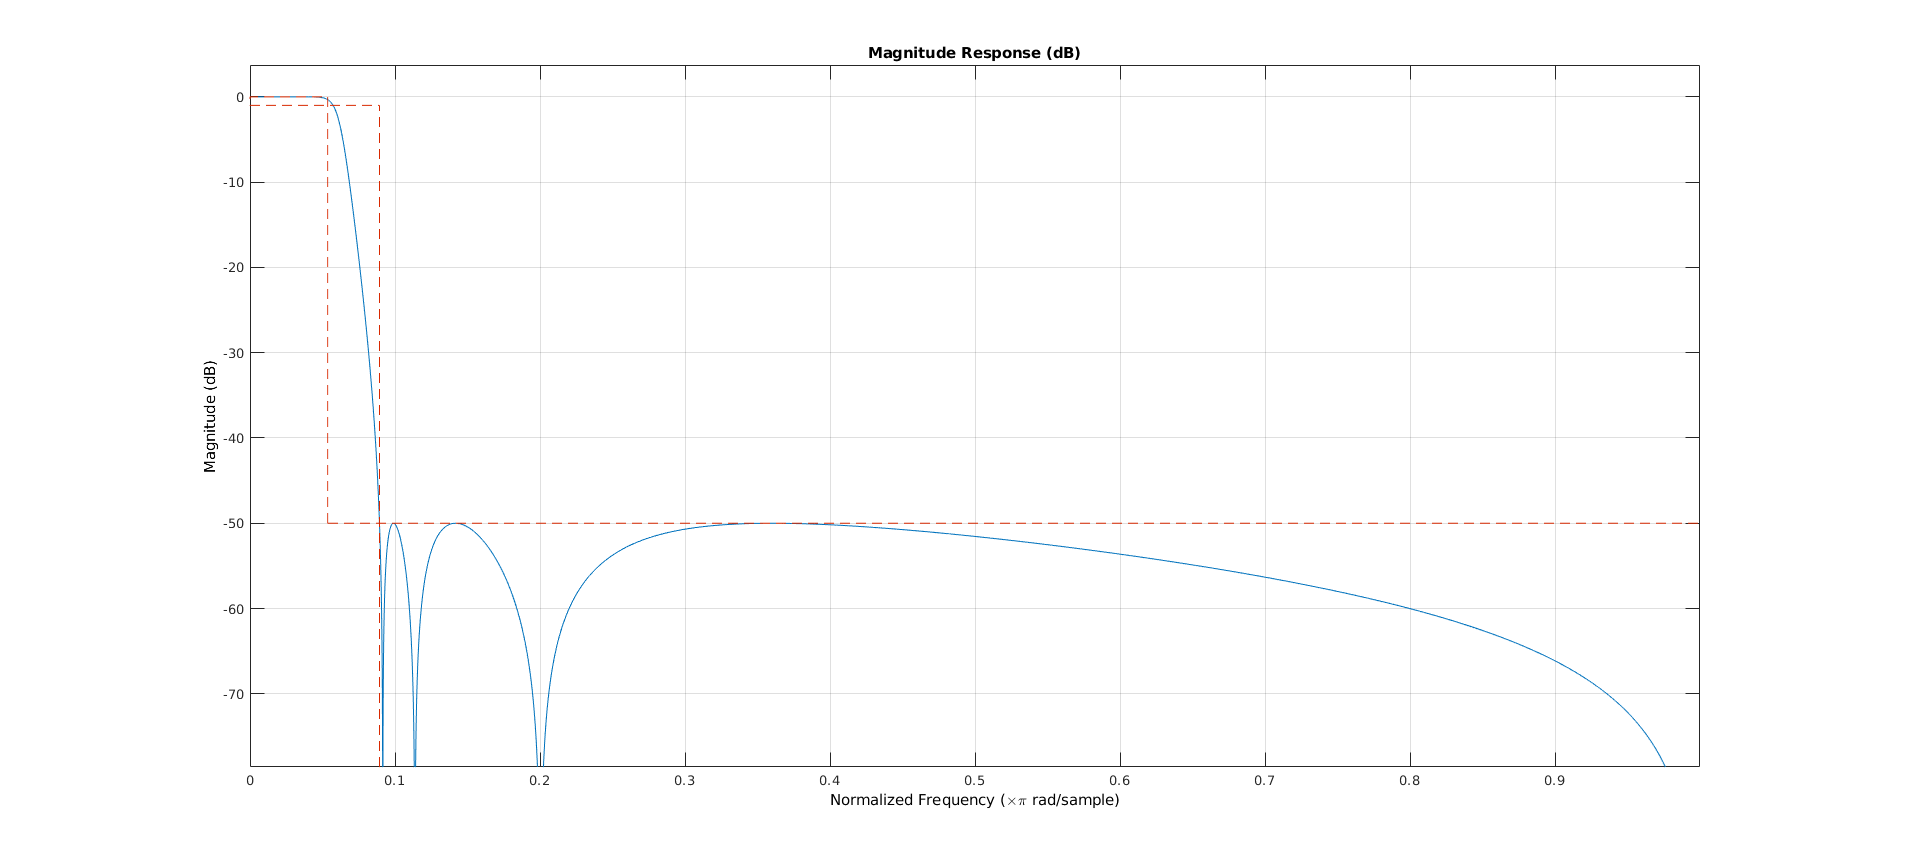
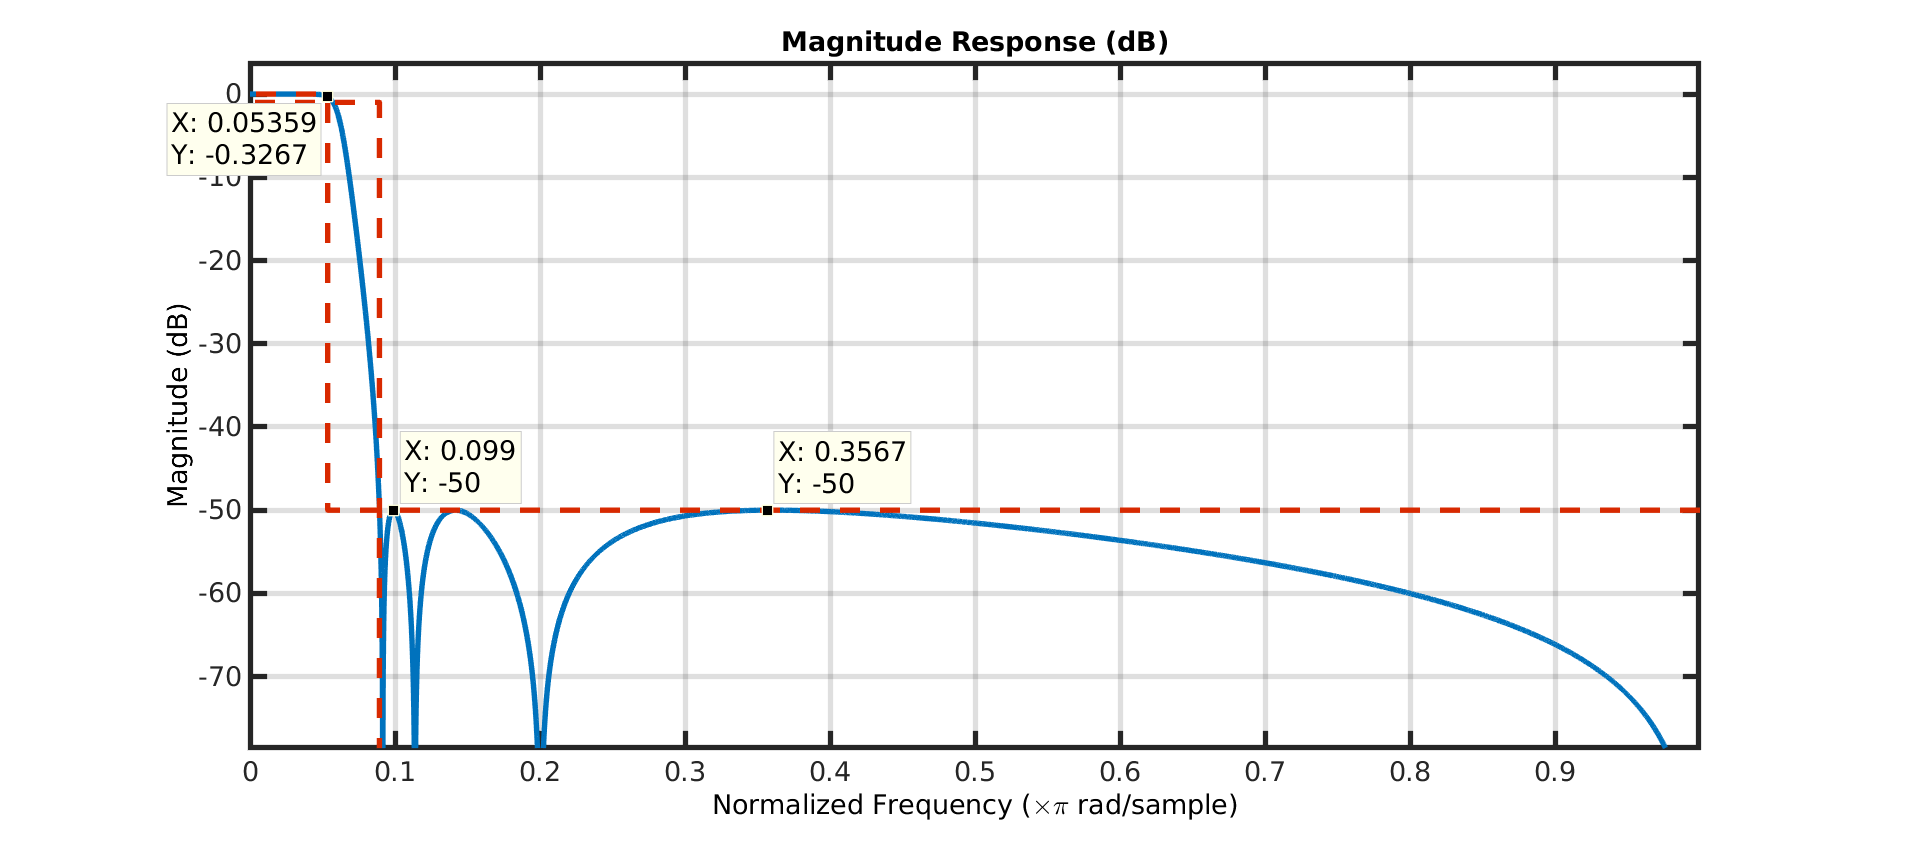
changed figs

diff --git a/week6/butterworth.m b/week6/butterworth.m
@@ -20,5 +20,7 @@ h  = fdesign.lowpass(Fpass, Fstop, Apass, Astop);
 Hd = design(h, 'butter', 'MatchExactly', match);
 disp('Order: ')
 disp(filtord(Hd.sosMatrix));
-fvtool(Hd)
+fvtool(Hd);
+set(findall(gcf,'-property','FontSize'),'FontSize',20)
+set(findall(gcf,'-property','LineWidth'),'LineWidth',4)
 % [EOF]

diff --git a/week6/chebyshev1.m b/week6/chebyshev1.m
@@ -21,4 +21,6 @@ Hd = design(h, 'cheby1', 'MatchExactly', match);
 disp('Order: ')
 disp(filtord(Hd.sosMatrix));
 fvtool(Hd)
+set(findall(gcf,'-property','FontSize'),'FontSize',20)
+set(findall(gcf,'-property','LineWidth'),'LineWidth',4)
 % [EOF]

diff --git a/week6/chebyshev2.m b/week6/chebyshev2.m
@@ -21,4 +21,6 @@ Hd = design(h, 'cheby2', 'MatchExactly', match);
 disp('Order: ')
 disp(filtord(Hd.sosMatrix));
 fvtool(Hd)
+set(findall(gcf,'-property','FontSize'),'FontSize',20)
+set(findall(gcf,'-property','LineWidth'),'LineWidth',4)
 % [EOF]

diff --git a/week6/elliptic.m b/week6/elliptic.m
@@ -21,4 +21,6 @@ Hd = design(h, 'ellip', 'MatchExactly', match);
 disp('Order: ')
 disp(filtord(Hd.sosMatrix));
 fvtool(Hd)
+set(findall(gcf,'-property','FontSize'),'FontSize',20)
+set(findall(gcf,'-property','LineWidth'),'LineWidth',4)
 % [EOF]

diff --git a/week6/pset.md b/week6/pset.md
@@ -1,9 +1,9 @@
 # Week 6 PSet
 Filter Specifications:
 
-(1) Discrete-time passband edge: $$\frac{3}{28} \pi \text{ rad/s }$$ 
+(1) Discrete-time passband edge: $\frac{3}{28} \pi \text{ rad/s }$ 
 
-(2) Discrete-time stopband edge: $$\frac{5}{28} \pi \text{ rad/s }$$ 
+(2) Discrete-time stopband edge: $\frac{5}{28} \pi \text{ rad/s }$ 
 
 (3) Maximum gain in the passband: 0 dB.
 
@@ -22,7 +22,7 @@ The Butterworth filter has the following magnitude response:
 
 This filter satisfies the specification as the as the gain in the passband is above -1 dB and the stopband attentuation is above 50 dB. As the Butterworth filter transfer function is given by:
 
-$$G(\Omega) = \frac{1}{\sqrt{1+(\frac{\Omega}{\Omega_c})^{2n}}} $$
+$$|H_c(j\Omega)|^2 = \frac{1}{\sqrt{1+(\frac{j\Omega}{j\Omega_c})^{2n}}} $$
 
 The filter magnitude response is monotonically decreasing, thus the stopband attentuation at the maximum frequency in the stopband in Figure 3 is sufficient to show that it meets the requirements for the stopband attentuation. It is worth noting the filter is also maximally flat in the passband. 
 
@@ -35,8 +35,29 @@ The Chebyshev I filter has the following magnitude response:
 
 ![**Figure 6.** Chebyshev I low pass filter stopband.](https://raw.githubusercontent.com/fpgamy/6341/master/week6/chebyshev1sb.png) 
 
-This filter satisfies the specification as the as the gain in the passband is above -1 dB and the stopband attentuation is above 50 dB. As the Butterworth filter transfer function is given by:
+This filter satisfies the specification as the as the gain in the passband equiripple and the maximum deviation from 0 dB is -1dB and the stopband attentuation is above 50 dB. As the Chebyshev I filter transfer function is given by:
 
-$$G(\omega) = \frac{1}{\sqrt{1+\omega^{2n}}} $$
+$$|H_c(j\Omega)|^2 = \frac{1}{1+(V_N^2(\frac{j\Omega}{j\Omega_c})\epsilon^2 } $$
+Where 
+$$V_N(x) = \cos(N\cos^{-1}(x))$$
+inside the passband, the value of $x$ varies from 0 to 1, and the value inside the cosine varies between 0 and 1. As this is scaled by $\epsilon^2$, the magnitude response squared varies between 1 and $\frac{1}{1+\epsilon^2}$, thus giving the equiripple behaviour. Increasing $\Omega$ beyond $\Omega_c$, the inverse cosine term in $V_N$ is imaginary and positive (refer to Figure 7). For $x \geq 1$ the imaginary part is also monotonically increasing. The cosine expression can be considered as applying an hyperbolic cosine function to the imaginary part of the argument. As the hyperbolic cosine is monotonically increasing for positive values of $x$, the stopband is monotonically decreasing. Thus, as with Butterworth filters, the stopband attentuation at the maximum frequency in the stopband being less than or equal to the maximum stopband gain is sufficient to show that it meets the requirements for the stopband attentuation.
 
-The filter magnitude response is monotonically decreasing, thus the stopband attentuation at the maximum frequency in the stopband in Figure 3 is sufficient to show that it meets the requirements for the stopband attentuation. It is worth noting the filter is also maximally flat in the passband. 
+![**Figure 7.** Imaginary part of the function $\text{cos}^{-1}(x)$.](https://raw.githubusercontent.com/fpgamy/6341/master/week6/imacos.png) 
+
+
+## Chebyshev II
+The Chebyshev II filter has the following magnitude response:
+
+![**Figure 8.** Chebyshev II low pass filter response.](https://raw.githubusercontent.com/fpgamy/6341/master/week6/chebyshev2.png) 
+
+![**Figure 9.** Chebyshev II low pass filter passband.](https://raw.githubusercontent.com/fpgamy/6341/master/week6/chebyshev2pb.png) 
+
+![**Figure 10.** Chebyshev II low pass filter stopband.](https://raw.githubusercontent.com/fpgamy/6341/master/week6/chebyshev2sb.png) 
+
+This filter satisfies the specification as the as the gain in the passband gain is above -1 dB and the maximum gain in the stopband is above -50 dB. As the Chebyshev II filter transfer function is given by:
+
+$$|H_c(j\Omega)|^2 = \frac{1}{1+[(V_N^2(\frac{j\Omega_c}{j\Omega})\epsilon^2]^{-1}} $$
+
+Inside the stopband, the value of $x = \frac{j\Omega_c}{j\Omega}$ varies from 0 to 1, and the value inside the cosine varies between 0 and 1. As this is scaled by $\epsilon^2$, the magnitude response squared varies between 1 and $\frac{1}{1+\epsilon^2}$, thus giving the equiripple behaviour in the stopband. 
+
+
